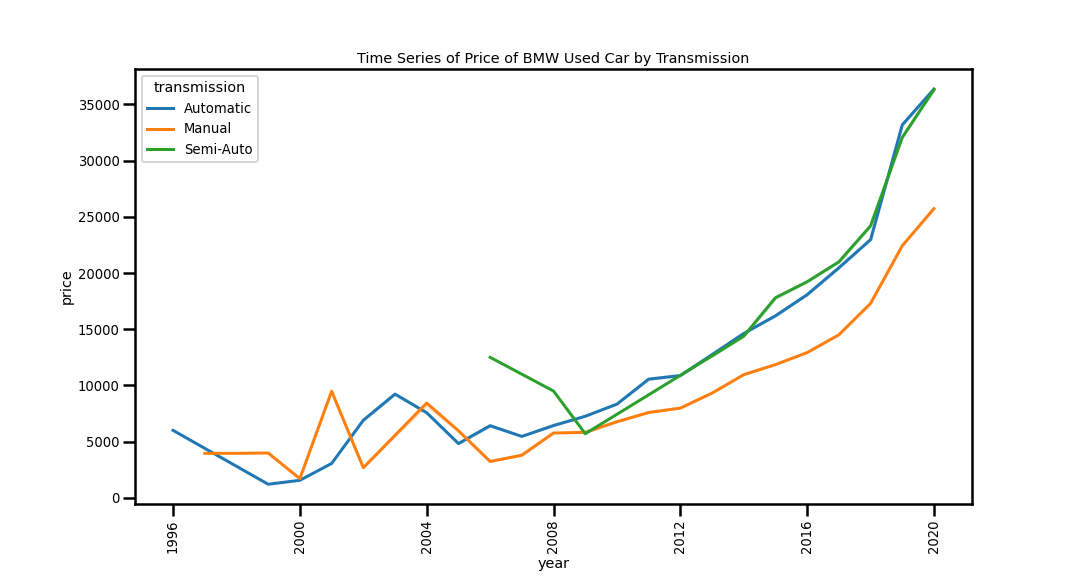
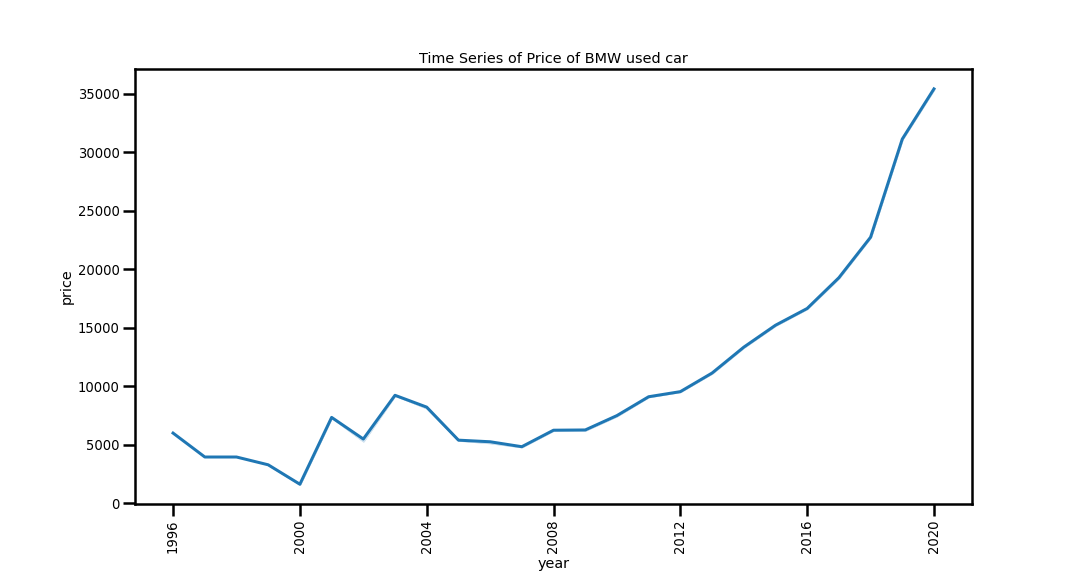
upoload timeseries plot

diff --git a/README.md b/README.md
@@ -1,5 +1,32 @@
 # BMW Used Car Sales - Price Predictor
 
-![BMW Car logo](images/bmw_logo.jpg?raw=true)
+![BMW Car logo](https://github.com/LenSin3/bmw_car_sales/blob/main/images/bmw_logo.jpg?raw=true)
 
-Predict prices of different used bmw models.
+Source: [WallpaperUse](https://www.google.com/imgres?imgurl=https%3A%2F%2Fwc.wallpaperuse.com%2Fwallp%2F72-728441_s.jpg&imgrefurl=https%3A%2F%2Fwww.wallpaperuse.com%2Fvien%2FbJxRhR%2F&tbnid=xPVRsC9TFm6teM&vet=12ahUKEwij2ff30ab0AhUH6J4KHebACHgQMyg4egQIARBU..i&docid=A4f5eNgUWKF7SM&w=621&h=380&itg=1&q=bmw%20logo&ved=2ahUKEwij2ff30ab0AhUH6J4KHebACHgQMyg4egQIARBU)
+
+
+## Background
+
+BMW is one of the best luxury car brands and it is considered a status symbol around the world. A brand new BMW, for example a **740i/750i xDrive** Model will cost a minimum of $86,000 USD. As you can see, not everyone is cut out to spend that much on a car. Second hand or used vehicles are the go to choice for most people who cannot afford the cost of a new car.
+
+In the light of the above, this project will use Supervised Machine Learning to predict the price of a used BMW car. 
+
+## Method
+
+The project will follow the below:
+
+- Read data.
+- Data validation and profiling.
+- Data transformation.
+- exploratory data analysis.
+- Machine Learning model developmenmt.
+- Feature importances.
+
+## Data
+
+The data used in this project is obtained from [Datacamp's Career Hub repository](https://github.com/datacamp/careerhub-data) on GitHub.
+
+## Example plots from Exploratory Data Analysis
+
+![Time Series of BMW Used car price](https://github.com/LenSin3/bmw_car_sales/blob/main/images/tmseriesn.png?raw=true)
+
